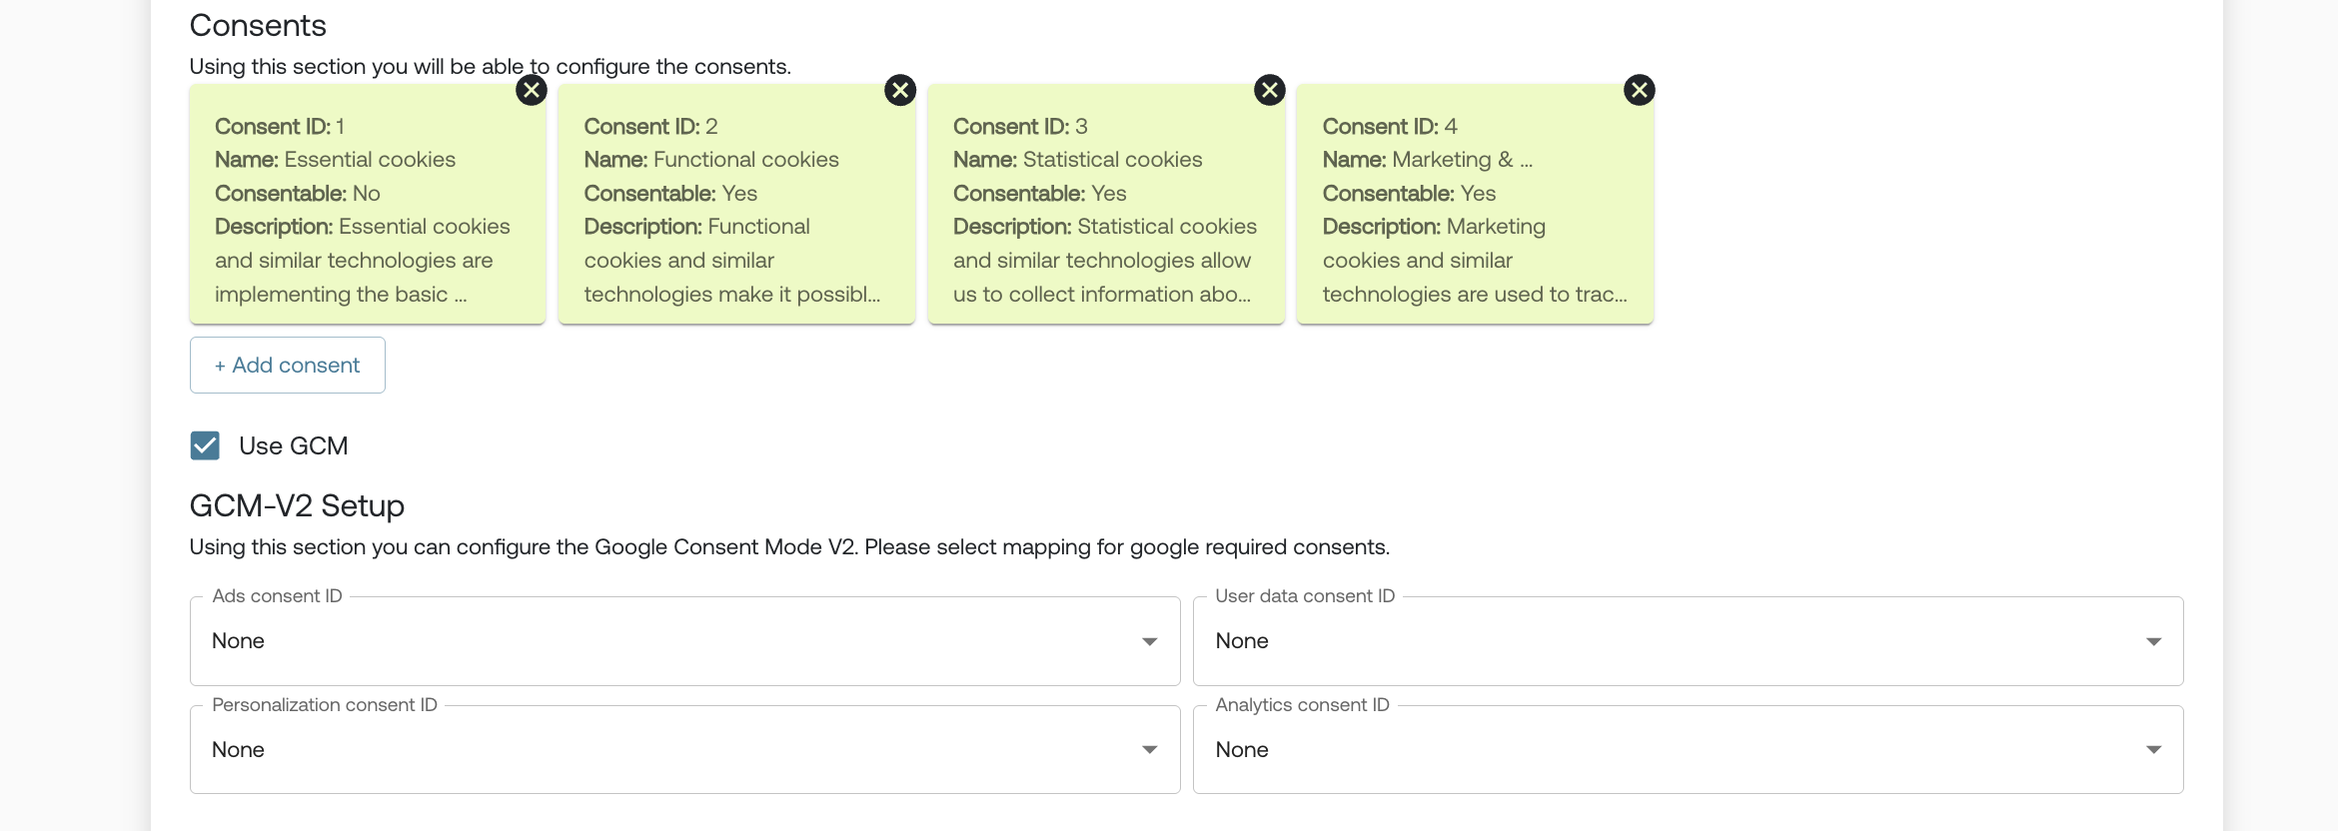
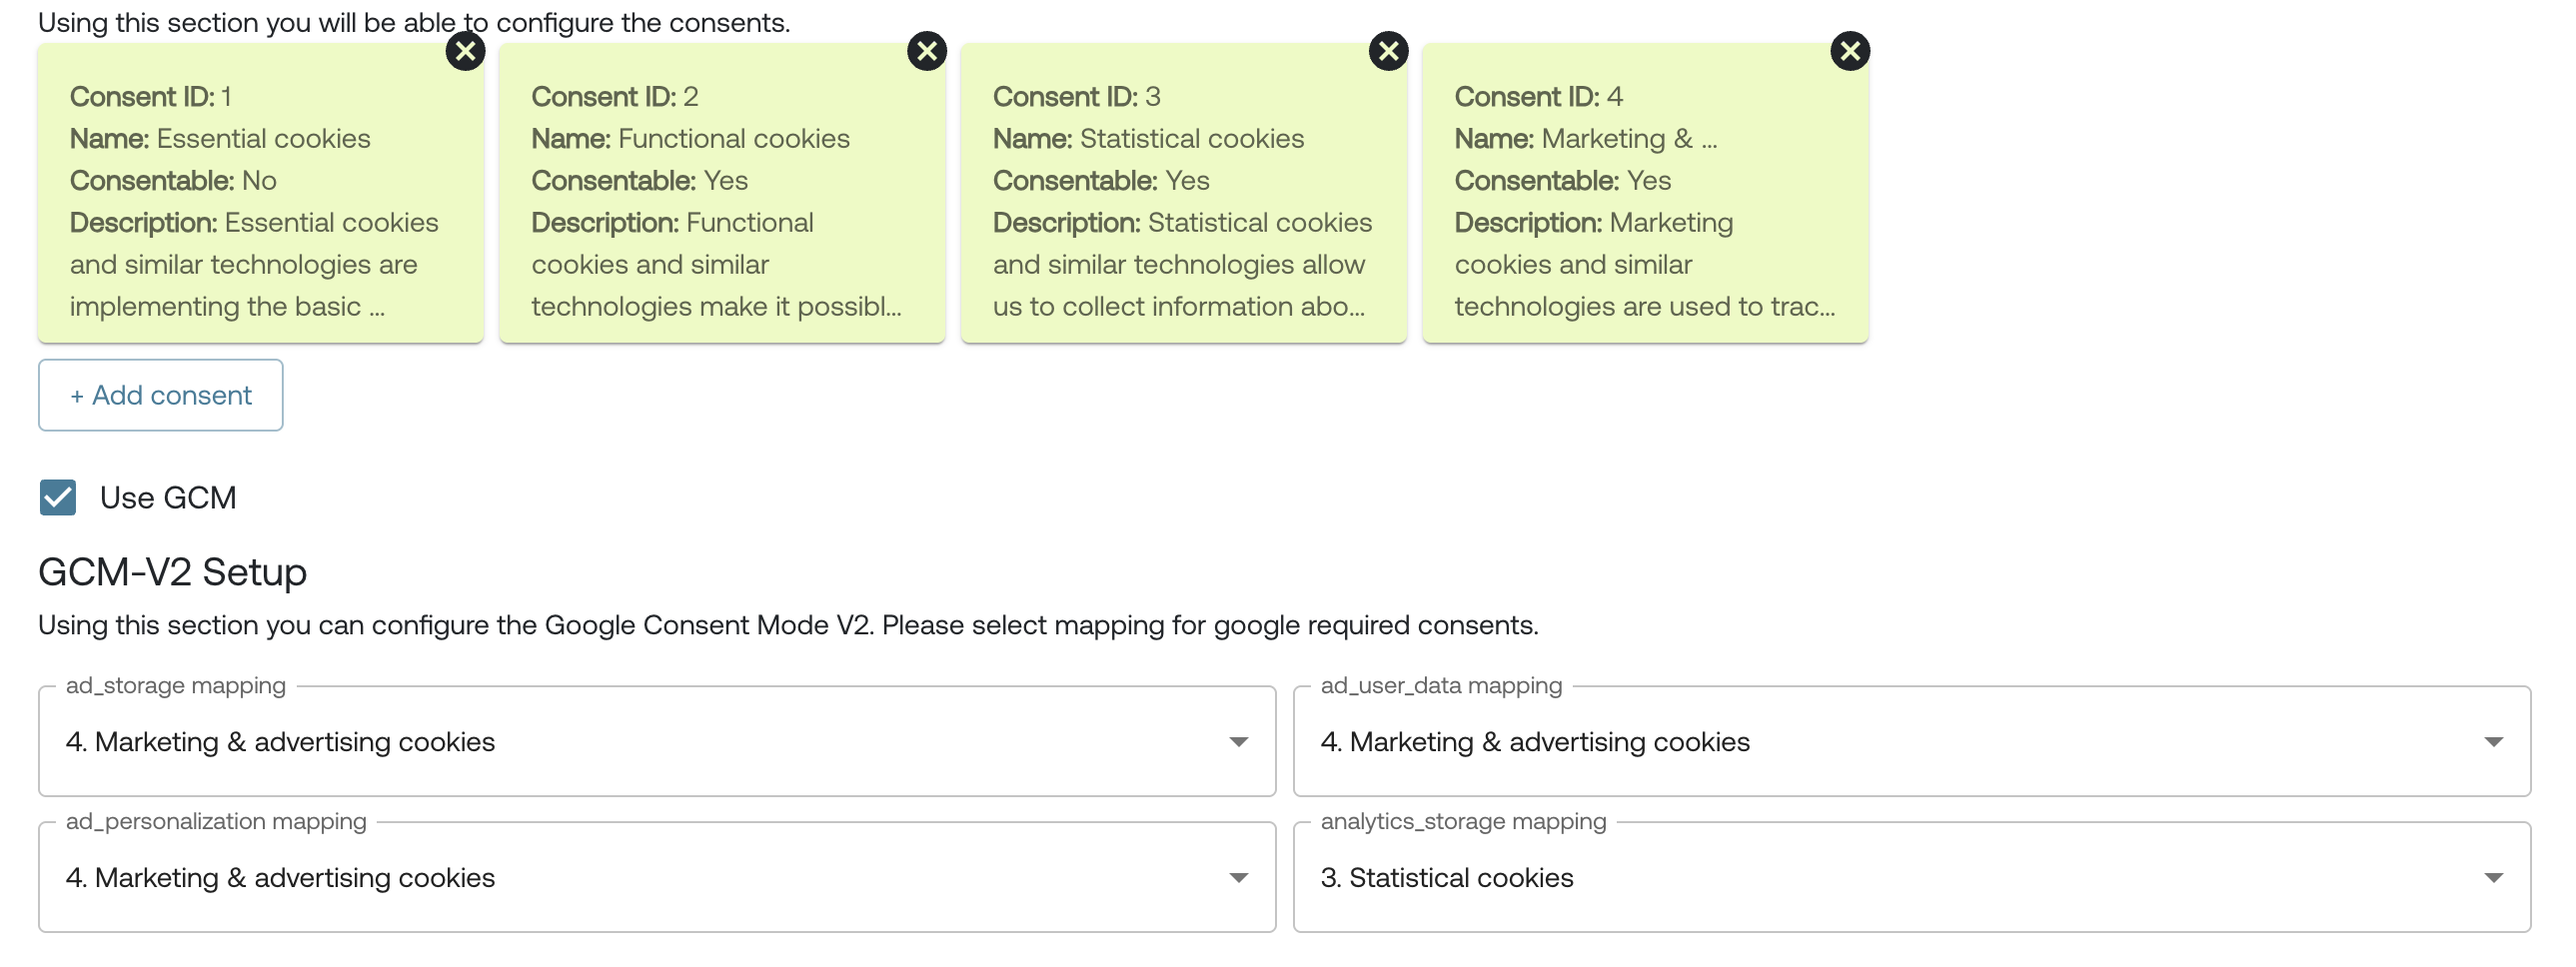
Modified GCMv2 for gravito CMP

diff --git a/docs/Gravito_Intelligent_CMP/advanced/Google_consent_mode_v2.md b/docs/Gravito_Intelligent_CMP/advanced/Google_consent_mode_v2.md
@@ -2,7 +2,7 @@
 
 ## What is Google Consent Mode v2?
 
-**Google Consent Mode v2** allows you to adjust how Google tags (like GA4, Google Ads, Floodlight) behave based on the user's consent choices. This helps ensure compliance with data protection regulations while still enabling important site functionality.
+**Google Consent Mode v2** allows you to adjust how Google tags behave based on the user's consent choices. This helps ensure compliance with data protection regulations while still enabling important site functionality.
 
 Consent Mode v2 particularly impacts:
 
@@ -13,10 +13,10 @@ Consent Mode v2 particularly impacts:
 With **Consent Mode v2**, Google introduced two **new consent signals** required to comply with the **EU Digital Markets Act (DMA)**:
 
 ### ✅ Consent Signals:
-1. `ad_storage`
-2. `analytics_storage`
-3. `ad_user_data` (🆕)
-4. `ad_personalization` (🆕)
+- `ad_storage`
+- `analytics_storage`
+- `ad_user_data` (🆕)
+- `ad_personalization` (🆕)
 
 > The new signals `ad_user_data` and `ad_personalization` are essential under DMA for platforms like Google Ads and should be set according to user consent.
 
@@ -26,30 +26,15 @@ With **Consent Mode v2**, Google introduced two **new consent signals** required
 
 ## Enabling Google Consent Mode v2 in Gravito CMP
 
-Gravito CMP supports two ways to enable Consent Mode v2:
-
----
-
-### 1. With GTM Template
-coming soon
-
-
----
-
-### 2. Without GTM Template
-
-You can also enable GCMv2 in your **Gravito CMP** or **TCF CMP** by modifying the CMP configuration directly in the Gravito Admin Portal.
-
-#### Steps:
-
-1. **Login** to the Gravito Admin Portal.
-2. Click on the **"CMP"** tab.
-3. Select the Gravito CMP from the option.
-4. On the CMP Config listing page, click the **"New"** button to create a new CMP.
-5. Fill in the **basic information**, then click **Next** at the bottom-left corner.
-6. On the **Consent Category** page:
-   - **Tick the checkbox** labeled **"Use GCMv2"**.
-   - This will open a section for **Google Consent Mode mapping**.
+### Creating Config in Admin Portal
+- **Login** to the Gravito Admin Portal.
+- Click on the **"CMP"** tab.
+- Select the Gravito CMP from the option.
+- On the CMP Config listing page, click the **"New"** button to create a new CMP.
+- Fill in the **basic information**, then click **Next** at the bottom-left corner.
+- On the **Consent Category** page:
+  - **Tick the checkbox** labeled **"Use GCMv2"**.
+  - This will open a section for **Google Consent Mode mapping**.
 
     ![](../images/GCMv2img2.png)
 
@@ -61,9 +46,7 @@ You’ll now see dropdowns to map categories for the following Google consent si
 - `ad_user_data`
 - `ad_personalization`
 
-For each of these, select the relevant **consent category** from the dropdown list.
-
- ![](../images/GCMv2img3.png)
+For each of these, select the relevant **consent category** from the dropdown list. You will see default mappings, but you can change them as per your requirements.
 
 Once mappings are complete, click **Save** at the bottom-right.
 
@@ -71,18 +54,81 @@ You may continue filling out the other CMP configuration steps, or jump directly
 
 ---
 
-#### Deployment (Without Template):
-
-1. In the Deploy tab, you'll see multiple deployment options.
-2. Since we’re not using the GTM template, click on **"Deployment Script"**.
-3. Click **"Publish"**.
-
-  ![](../images/GCMv2Img1.png)
-
-> **Note:** When you click **Publish**, the system will validate all required fields. If anything is missing, it will display an error.
-
-Once the config is published, you’ll be provided with a **deployment script**, which you can embed directly in your webpage to activate Consent Mode v2.
+Gravito CMP supports two ways to enable Consent Mode v2:
 
 ---
 
+### 1. With GTM Template
 
+- In the **Deploy** tab, you’ll see multiple deployment options.
+- Click on the **"GTM Template"** option.
+- Click **"Publish"**.
+
+   ![](../images/GCMV2PublishGTM.png)
+
+   > **Note:** When you click **Publish**, the system will validate all required fields. If anything is missing, it will display an error.  
+   Once the config is published, you’ll be provided with a button labeled **"Copy GTM Token"**. Clicking this will copy the GTM token to your clipboard. We will use this token in the GTM template.
+
+   ![](../images/GCMv2PublishCopyToken.png)
+
+- **Login** to your **Google Tag Manager** account and click on a new **Tag**.
+
+#### Tag Configuration:
+- Choose the **Gravito Consent Management** template from the list.
+
+   ![](../images/GTMTemplateSearch.png)
+
+#### Fill the fields:
+
+| Field                          | Description                                                                 |
+|--------------------------------|-----------------------------------------------------------------------------|
+| **Gravito Token**              | Paste the **CMP token** copied from Gravito portal                          |
+| **Gravito CMP type**           | Select **Gravito CMP** (or other type if applicable)                        |
+| ✅ **Enable Google Consent Mode** | Enable this to activate GCM support                                       |
+
+---
+
+### Google Consent Mode Settings
+
+| Option                     | Description                                                                 |
+|----------------------------|-----------------------------------------------------------------------------|
+| **Wait for update**        | Time to wait (in ms) for consent before proceeding (default: `2000`)        |
+| **Enable URL passthrough** | Optional: Enable if you need to forward consent state via query params      |
+| **Redact ads data**        | Set to **Dynamic (based on ad_storage)** for flexible ad personalization    |
+
+---
+
+### Default Consent State (Optional)
+
+- Configure regional preferences if needed.
+- You can **leave it blank** to apply globally.
+
+   ![](../images/GTMTemplateView.png)
+
+### Add Trigger and Save
+
+- Add a **Page View** or **All Pages** trigger to fire this tag on every page load.
+- Click **Save**.
+
+---
+
+### Publish the GTM Container
+
+- Submit and **Publish** the container.
+- CMP will now load and handle consent dynamically on your site.
+
+---
+
+### 2. Without GTM Template
+
+#### Deployment (Without Template):
+
+- In the **Deploy** tab, you'll see multiple deployment options.
+- Since we’re not using the GTM template, click on **"Deployment Script"**.
+- Click **"Publish"**.
+
+   ![](../images/GCMv2Img1.png)
+
+   > **Note:** When you click **Publish**, the system will validate all required fields. If anything is missing, it will display an error.
+
+Once the config is published, you’ll be provided with a **deployment script**, which you can embed directly in your webpage to activate Consent Mode v2.
